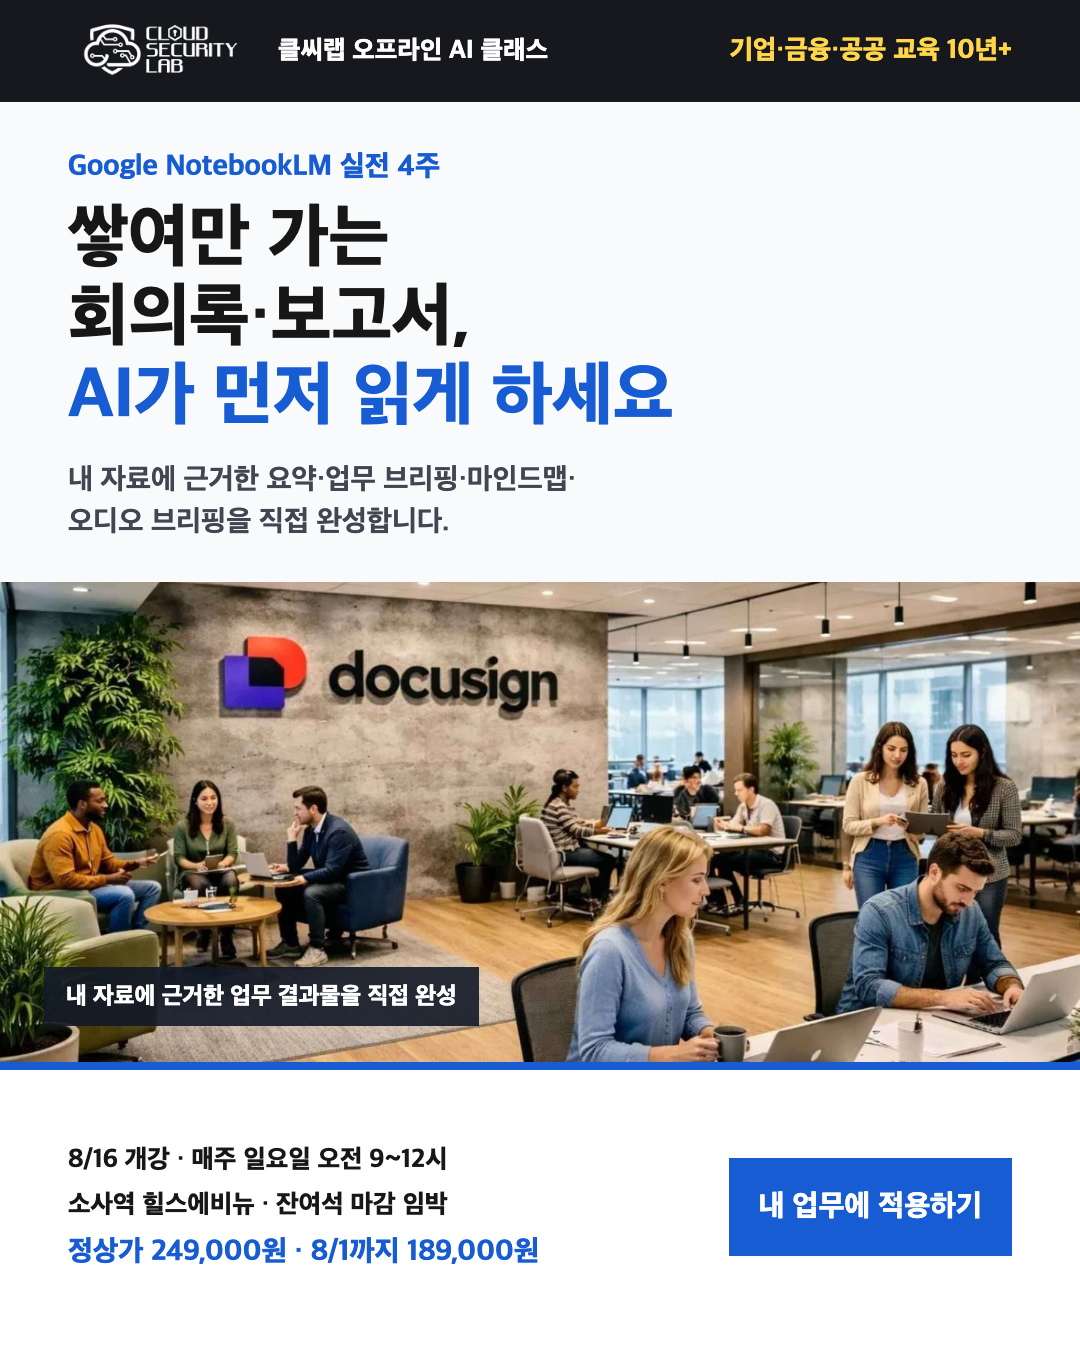
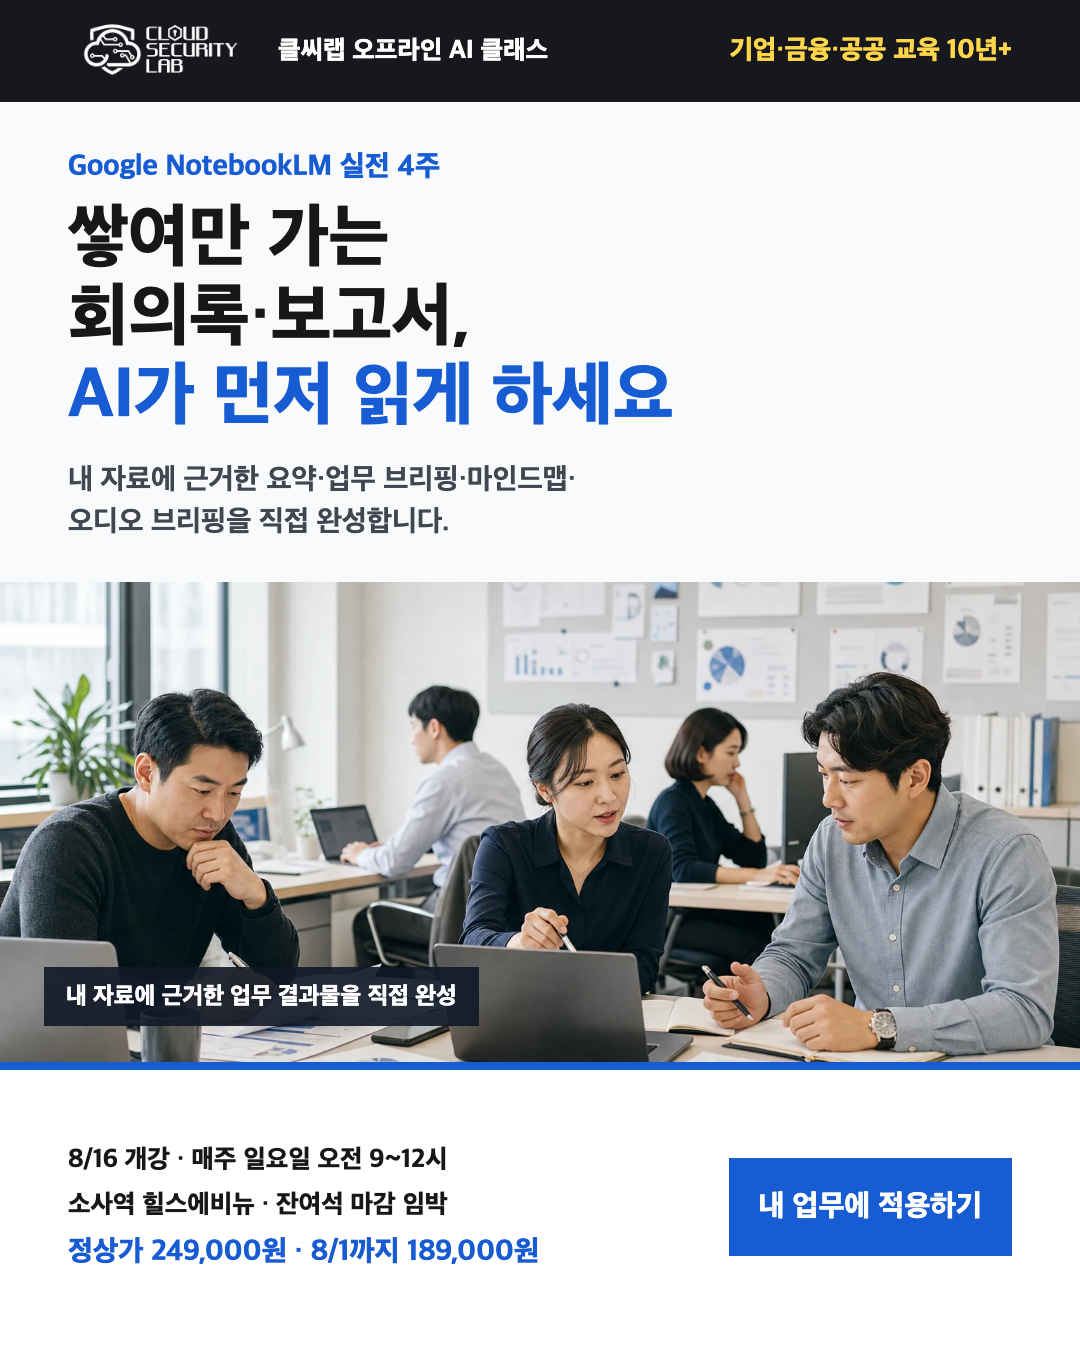
Remove third-party branding from Gemini candidate

diff --git a/experiments/e-011-notebook-workload-ad-preview.html b/experiments/e-011-notebook-workload-ad-preview.html
@@ -203,7 +203,7 @@
       <p class="subcopy">내 자료에 근거한 요약·업무 브리핑·마인드맵·<br />오디오 브리핑을 직접 완성합니다.</p>
     </div>
     <div class="workplace">
-      <img src="../images/notebooklm-docusign-workplace.webp" alt="" />
+      <img src="assets/notebooklm-workplace-generic-v2.webp" alt="" />
     </div>
     <div class="details">
       <div class="facts">

diff --git a/marketing-report.md b/marketing-report.md
@@ -307,7 +307,7 @@
 - 준비 상태: `prepared_not_live`
 - 단일 변경: 도구 소개형 첫 인상을 쌓인 회의록·보고서 정리 문제와 직장인 업무 장면 중심으로 교체
 - 미리보기: `experiments/e-011-notebook-workload-ad-preview.html`
-- 실행 자산: feed=`experiments/assets/e-011-notebook-workload-feed.png`, story=`experiments/assets/e-011-notebook-workload-story.png`, render_script=`scripts/render-e011-notebook-workload.sh`
+- 실행 자산: feed=`experiments/assets/e-011-notebook-workload-feed.png`, story=`experiments/assets/e-011-notebook-workload-story.png`, render_script=`scripts/render-e011-notebook-workload.sh`, photo_source=`experiments/assets/notebooklm-workplace-generic-v2.webp`
 - 실행 광고: `[Codex] Gemini노트북_업무문서문제_v2`
 - 실행 목적지: `https://gasbugs.github.io/dalnayou-class-landing/notebooklm.html?utm_source=facebook&utm_medium=paid_social&utm_campaign=dalnayou_2026_08&utm_content=notebooklm_workload_candidate_v2`
 - 표본 게이트: 43 / 30 (충족)
